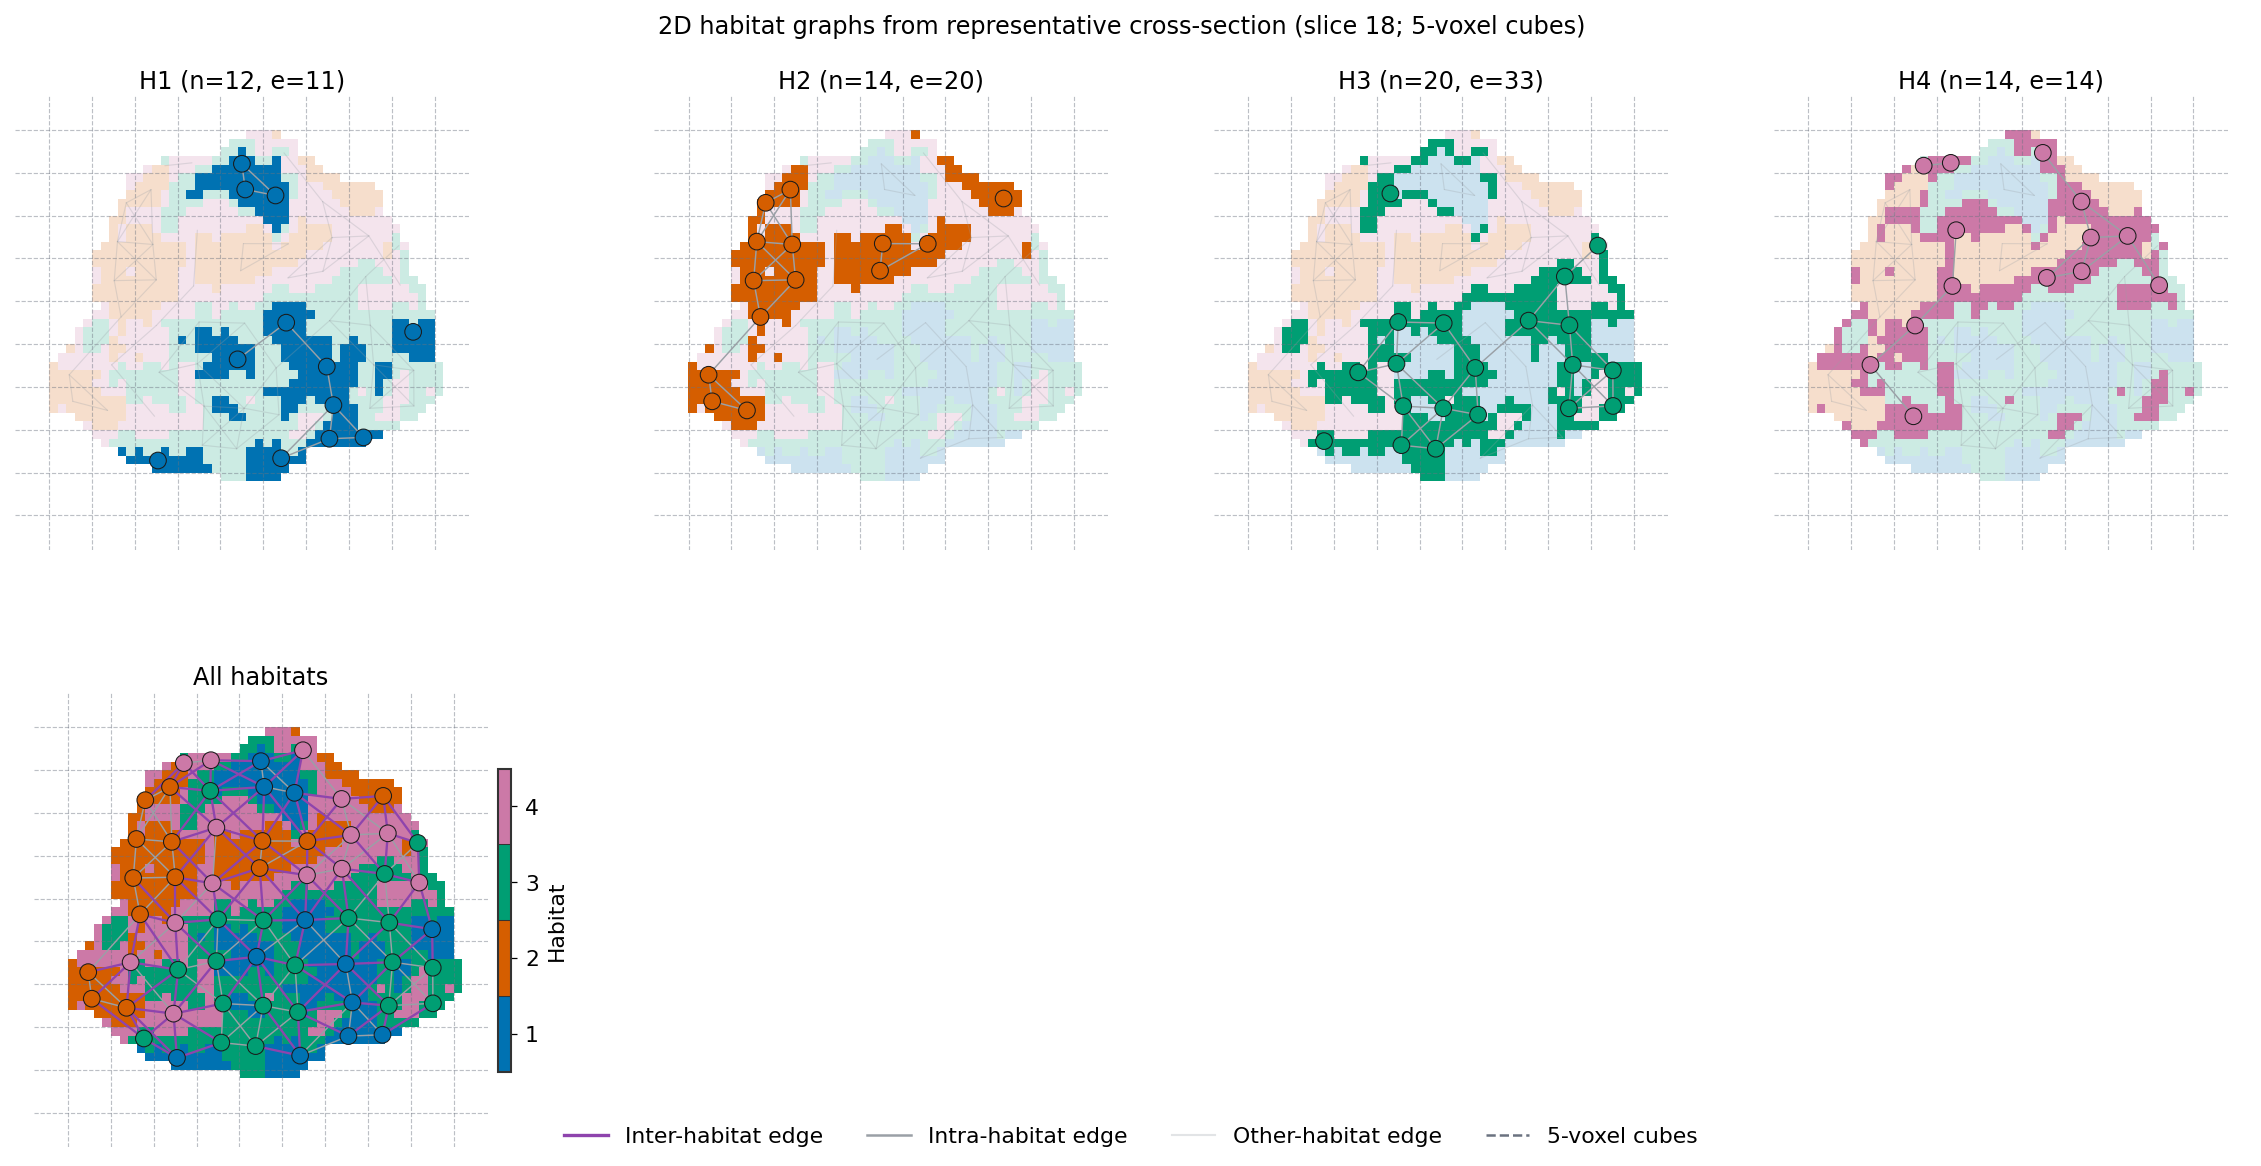
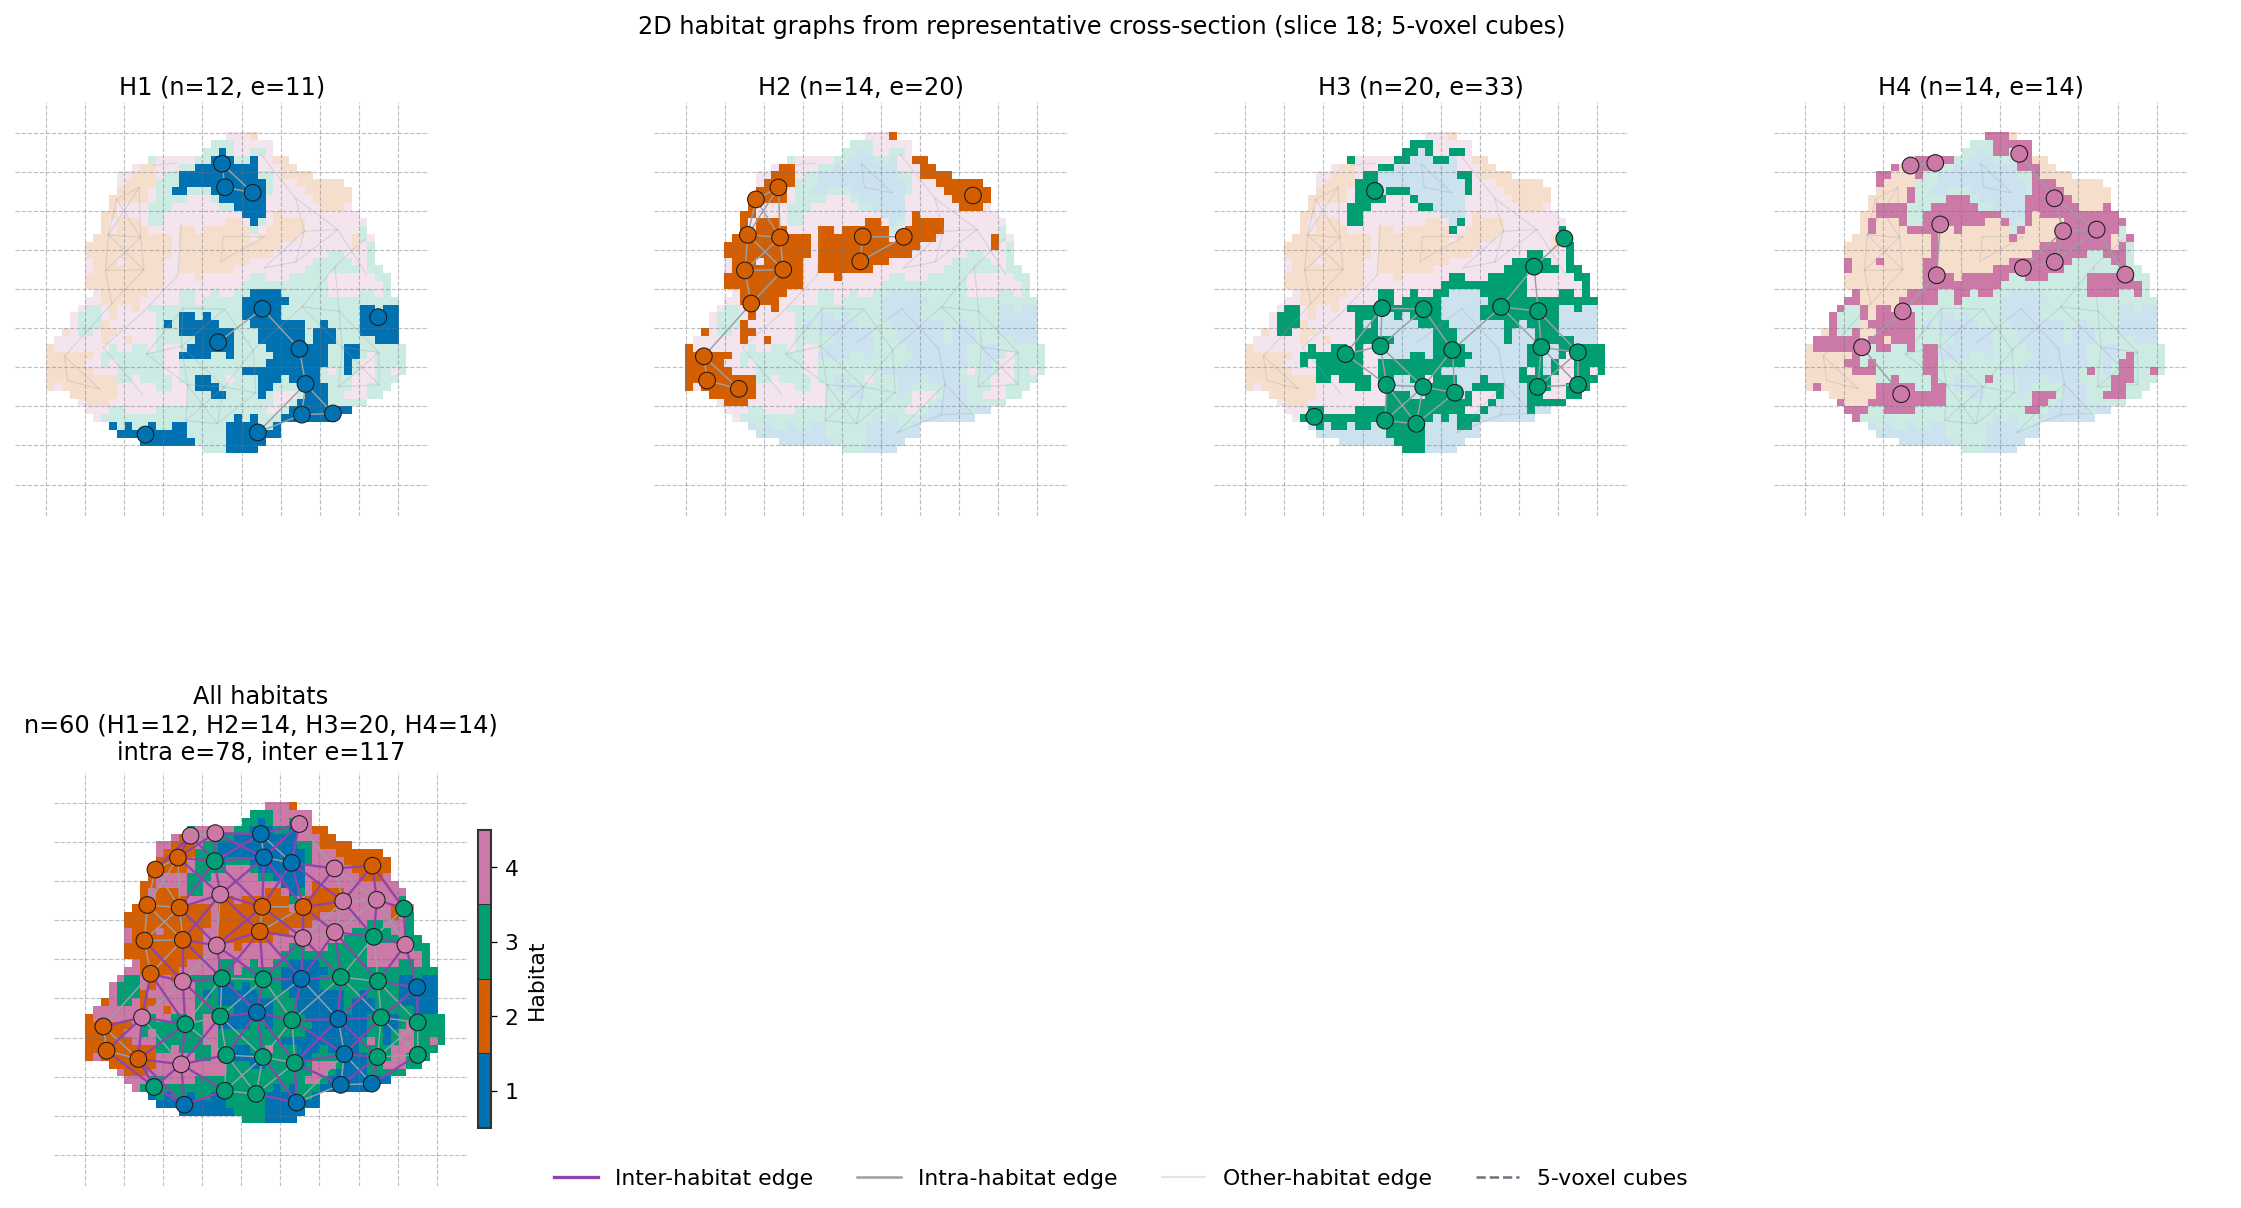
viz: show All-habitats node and intra/inter edge counts on the 2D network panel.

diff --git a/habit/viz/habitat_graph.py b/habit/viz/habitat_graph.py
@@ -307,6 +307,51 @@ def _combined_graph(
     return id_to_node, intra_edges, inter_edges
 
 
+def _all_habitats_title(
+    labels: Sequence[int],
+    nodes_by_habitat: Dict[int, Sequence[HabitatGraphNode]],
+    intra_edges: Sequence[_EdgePair],
+    inter_edges: Sequence[_EdgePair],
+) -> str:
+    """
+    Build the English All-habitats panel title with node and edge counts.
+
+    Args:
+        labels: Sorted habitat IDs present on the drawn slice.
+        nodes_by_habitat: Nodes grouped by habitat label.
+        intra_edges: Combined intra-habitat edges drawn on the All panel.
+        inter_edges: Combined inter-habitat edges drawn on the All panel.
+
+    Returns:
+        Multiline title, for example::
+
+            All habitats
+            n=60 (H1=12, H2=14, H3=20, H4=14)
+            intra e=78, inter e=12
+
+        Per-habitat counts wrap every four habitats so crowded grids stay
+        readable. Figure text stays English-only.
+    """
+    counts = [len(nodes_by_habitat[int(label)]) for label in labels]
+    total = int(sum(counts))
+    parts = [
+        f"H{int(label)}={count}" for label, count in zip(labels, counts)
+    ]
+    # Wrap every four habitats so an 8-habitat grid does not overflow.
+    wrapped: List[str] = []
+    for start in range(0, len(parts), 4):
+        wrapped.append(", ".join(parts[start : start + 4]))
+    if len(wrapped) == 1:
+        n_line = f"n={total} ({wrapped[0]})"
+    else:
+        n_line = f"n={total} ({wrapped[0]},\n  " + ",\n  ".join(wrapped[1:]) + ")"
+    return (
+        f"All habitats\n"
+        f"{n_line}\n"
+        f"intra e={len(intra_edges)}, inter e={len(inter_edges)}"
+    )
+
+
 # ---------------------------------------------------------------------------
 # Color and styling helpers
 # ---------------------------------------------------------------------------
@@ -937,7 +982,8 @@ def plot_habitat_graph_network_2d(
     # Extra width + bottom room so short titles and the larger figlegend
     # cannot collide when many habitats share one row.
     fig_width = cols * panel_size * 1.18
-    fig_height = rows * panel_size + 1.35
+    # Extra height for the All-panel multiline title (n / intra / inter).
+    fig_height = rows * panel_size + 1.65
     with use_style("radiology"):
         fig, axes = plt.subplots(
             rows,
@@ -948,9 +994,9 @@ def plot_habitat_graph_network_2d(
         )
         fig.set_constrained_layout_pads(
             w_pad=0.05,
-            h_pad=0.10,
+            h_pad=0.12,
             wspace=0.12,
-            hspace=0.20,
+            hspace=0.28,
         )
         flat = [ax for row in axes for ax in row]
         for ax in flat[n_panels:]:
@@ -1013,9 +1059,14 @@ def plot_habitat_graph_network_2d(
         _style_axis_2d(
             ax_cross,
             label_2d,
-            "All habitats",
+            _all_habitats_title(
+                labels,
+                node_result.nodes_by_habitat,
+                intra_edges,
+                inter_edges,
+            ),
             title_fontsize=_PANEL_TITLE_FONTSIZE,
-            title_pad=4.0,
+            title_pad=6.0,
         )
         cbar = add_discrete_habitat_colorbar(
             ax_cross,

diff --git a/tests/viz/test_habitat_graph.py b/tests/viz/test_habitat_graph.py
@@ -126,7 +126,7 @@ def test_plot_habitat_graph_network_2d_returns_figure_and_saves(tmp_path) -> Non
             if rgba.ndim == 3 and rgba.shape[-1] == 4:
                 alphas = rgba[..., 3]
                 painted = alphas > 0
-                if title == "All habitats":
+                if title.startswith("All habitats"):
                     assert painted.any()
                     assert np.allclose(alphas[painted], 1.0)
                 elif title.startswith("H"):
@@ -165,8 +165,45 @@ def test_plot_habitat_graph_network_2d_returns_figure_and_saves(tmp_path) -> Non
         assert "Intra-habitat graph" not in title
         assert "slice" not in title.lower()
     assert any(title.startswith("H") for title in panel_titles)
-    assert "All habitats" in panel_titles
+    all_titles = [title for title in panel_titles if title.startswith("All habitats")]
+    assert all_titles
+    all_title = all_titles[0]
+    assert "n=" in all_title
+    assert "H1=" in all_title
+    assert "intra e=" in all_title
+    assert "inter e=" in all_title
 
+    import matplotlib.pyplot as plt
+
+    plt.close(fig)
+
+
+def test_plot_habitat_graph_network_2d_all_panel_reports_n_and_edges() -> None:
+    """All-habitats title lists per-habitat nodes plus intra/inter edges."""
+    labels = _synthetic_2d_labels()
+    fig = plot_habitat_graph_network_2d(labels, options=_viz_options())
+    assert isinstance(fig, Figure)
+    all_axes = [
+        ax for ax in fig.axes if ax.get_title().startswith("All habitats")
+    ]
+    assert len(all_axes) == 1
+    title = all_axes[0].get_title()
+    assert title.isascii()
+    lines = [line.strip() for line in title.splitlines() if line.strip()]
+    assert lines[0] == "All habitats"
+    assert lines[1].startswith("n=")
+    assert "H1=" in lines[1]
+    assert "H2=" in lines[1]
+    assert "H3=" in lines[1]
+    assert any(line.startswith("intra e=") and "inter e=" in line for line in lines)
+    habitat_titles = [
+        ax.get_title() for ax in fig.axes if ax.get_title().startswith("H")
+    ]
+    assert habitat_titles
+    for habitat_title in habitat_titles:
+        assert "n=" in habitat_title
+        assert "e=" in habitat_title
+        assert "intra e=" not in habitat_title
     import matplotlib.pyplot as plt
 
     plt.close(fig)
@@ -293,7 +330,7 @@ def test_plot_habitat_graph_network_2d_titles_do_not_overlap() -> None:
         assert title.isascii()
         assert "Intra-habitat graph" not in title
         assert "slice" not in title.lower()
-    assert any(ax.get_title() == "All habitats" for ax in titled_axes)
+    assert any(ax.get_title().startswith("All habitats") for ax in titled_axes)
     if fig._suptitle is not None:
         assert "slice" in fig._suptitle.get_text().lower()
 

diff --git a/docs/source/examples/graph_features.rst b/docs/source/examples/graph_features.rst
@@ -71,9 +71,11 @@ Anatomy with habitats
    :alt: Intra- and inter-habitat graphs on a 2D habitat slice
    :width: 720
 
-   Intra-habitat panels plus the combined inter-habitat graph. Display
-   knobs ``block_size=5`` / ``grid_linestyle='--'`` draw the same 5-voxel
-   cubes; other habitats' edges on each H panel are gray and translucent
+   Intra-habitat panels plus the combined All-habitats graph. The All
+   panel title reports per-habitat node counts and intra/inter edge
+   counts. Display knobs ``block_size=5`` / ``grid_linestyle='--'`` draw
+   the same 5-voxel cubes; other habitats' edges on each H panel are gray
+   and translucent
    (:func:`~habit.viz.plot_habitat_graph_network_2d`).
 
 3D surfaces and network
